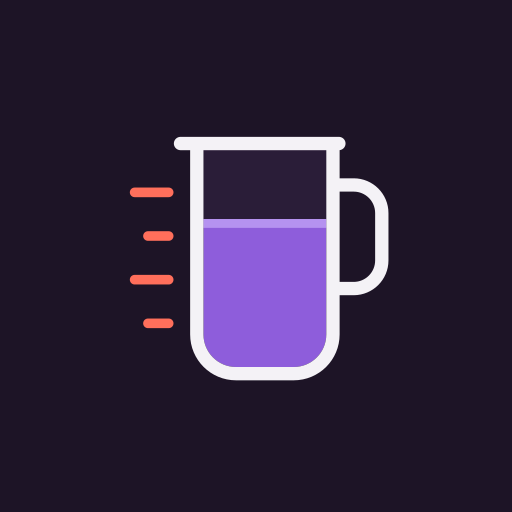
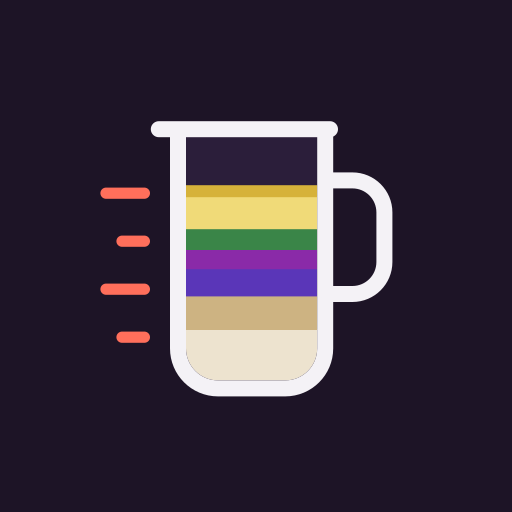
Shake: ny ikon med ingredienserna i lager
Samma kanna som på appens första skärm: mjölk, havre, bär, spenat, banan
och olivolja i lager, med de röda måttstrecken bredvid.

Claude-Session: https://claude.ai/code/session_01XWhxiq89ZzDTz2XdLgukBk

Changed region(s): [[0.1875, 0.2188, 0.7812, 0.7812]]

diff --git a/shake/sw.js b/shake/sw.js
@@ -1,7 +1,7 @@
 // Shake: offline shell. Only this app's own caches are ever cleaned up,
 // because the gym app and the day schedule share the same site and keep caches of their own.
 const PREFIX = "shake-";
-const CACHE = PREFIX + "v202611102215";
+const CACHE = PREFIX + "v202611102221";
 const SHELL = ["./", "./index.html", "./manifest.webmanifest", "./fonts/sofia-sans.woff2", "./fonts/sofia-sans-extra-condensed.woff2", "./icon-180.png", "./icon-192.png", "./icon-512.png"];
 self.addEventListener("install", e => { e.waitUntil(caches.open(CACHE).then(c => c.addAll(SHELL)).then(() => self.skipWaiting())); });
 self.addEventListener("activate", e => { e.waitUntil(caches.keys().then(keys => Promise.all(keys.filter(k => k.startsWith(PREFIX) && k !== CACHE).map(k => caches.delete(k)))).then(() => self.clients.claim())); });
